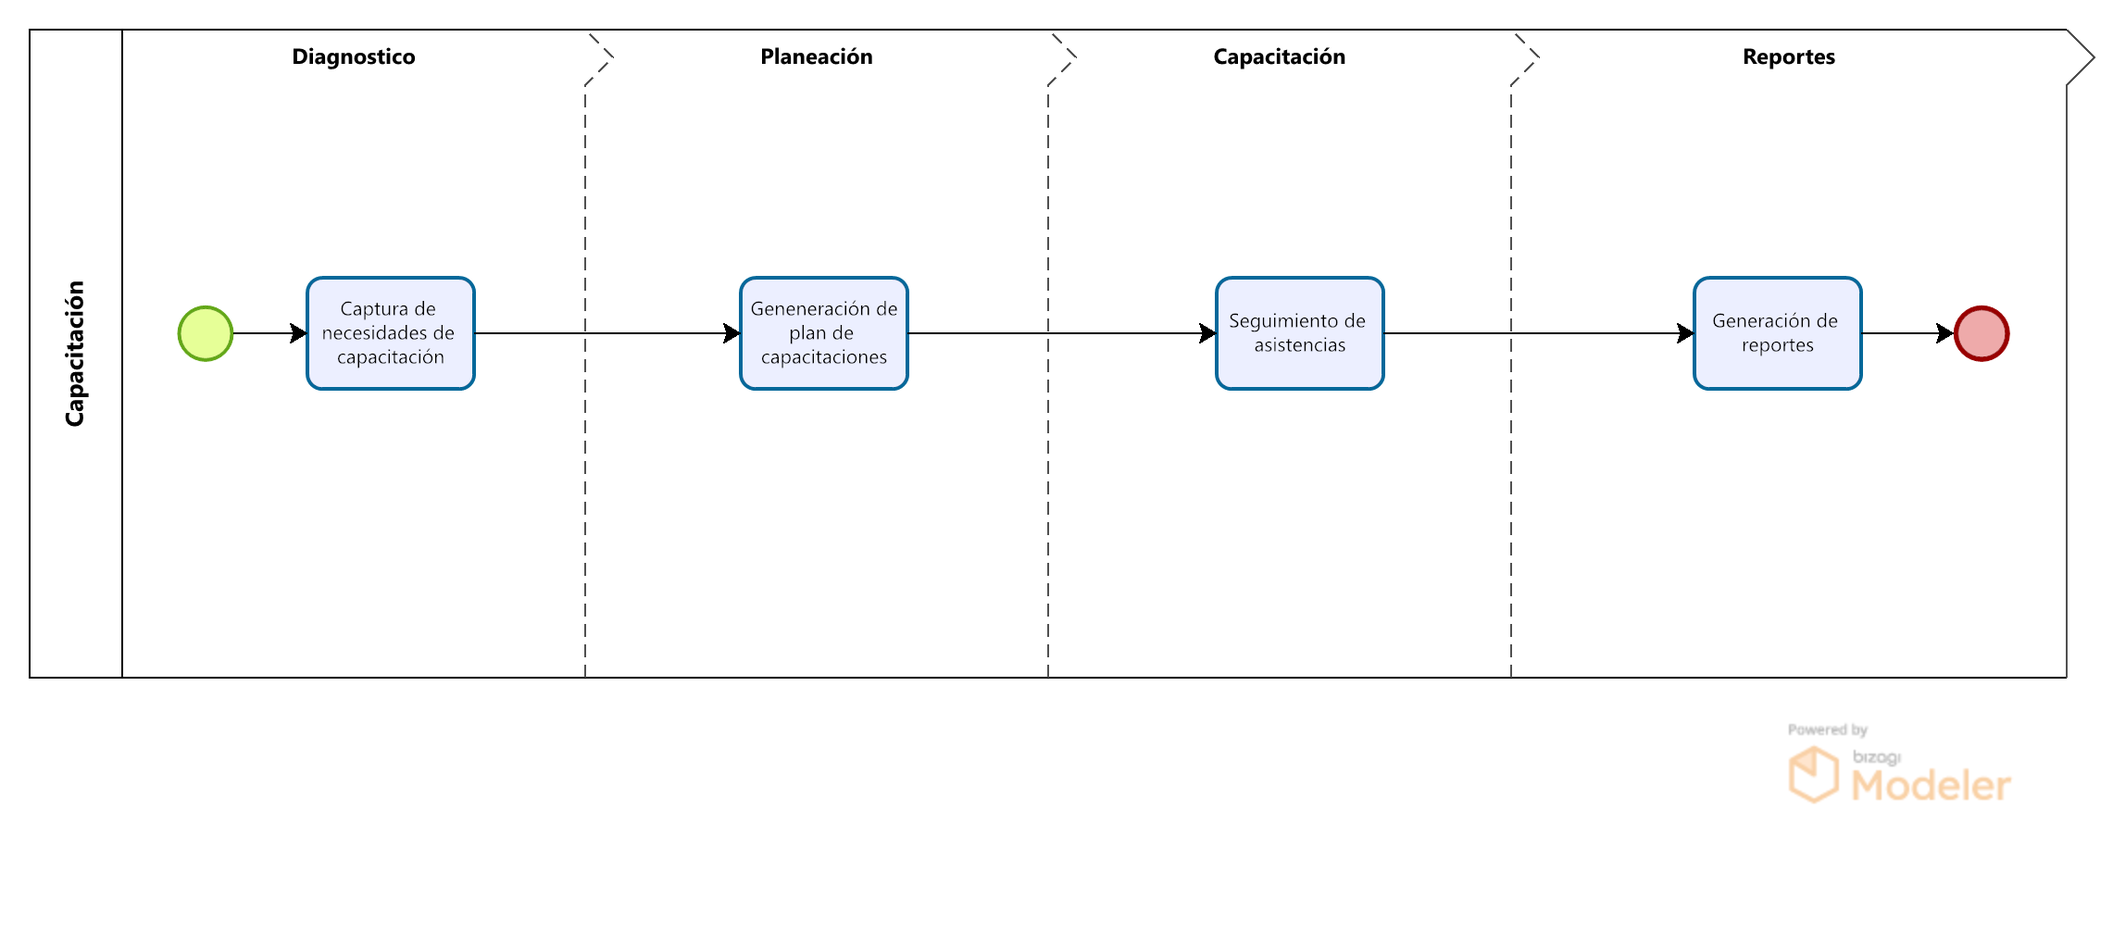
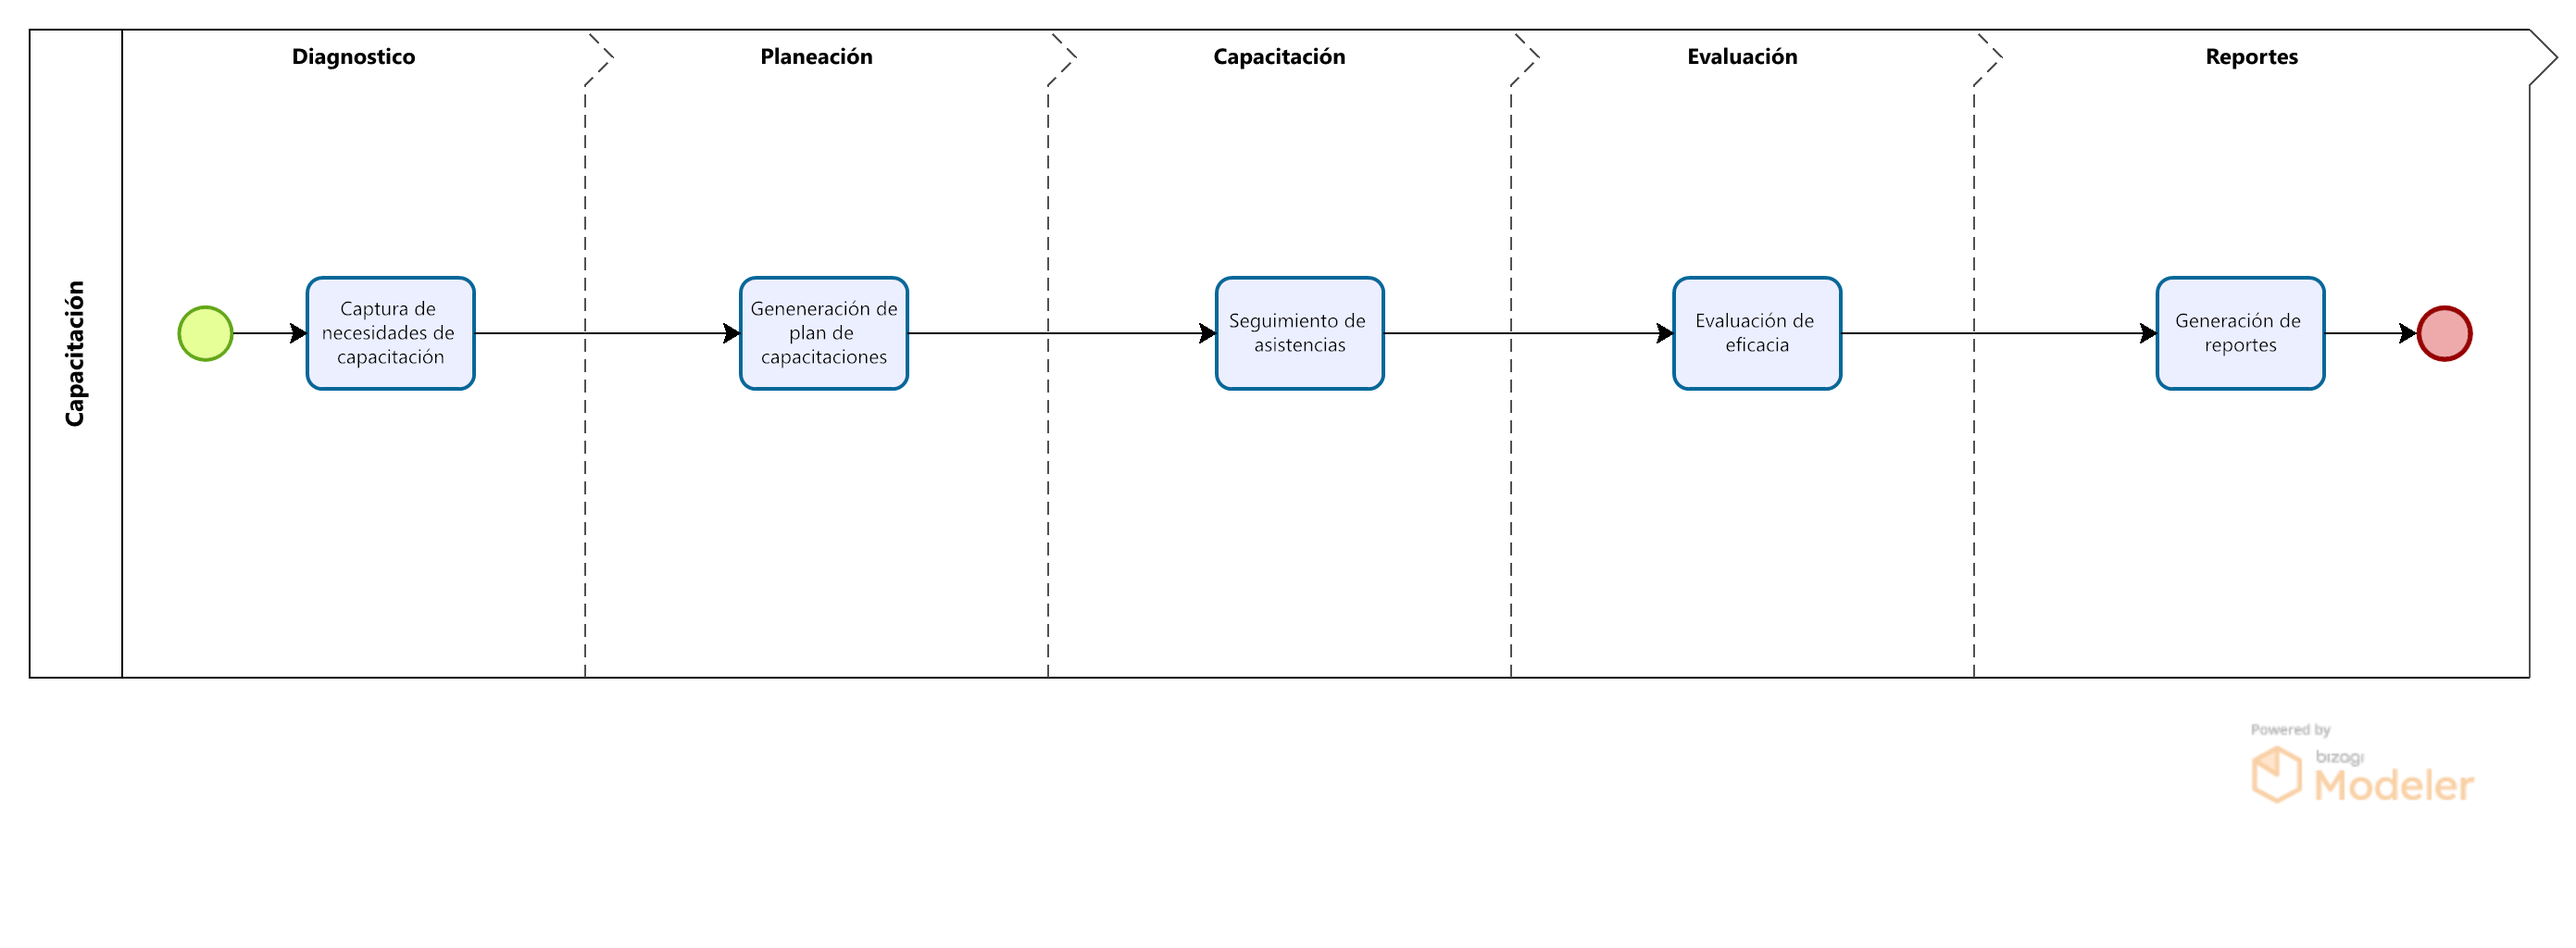
Add evaluation

diff --git a/docs/user-docs/04.evaluation.md b/docs/user-docs/04.evaluation.md
@@ -1,0 +1,7 @@
+# Evaluación de la eficacia
+
+El personal del área de _Capacitación_ podrá evaluar y registrar en la plataforma si la capacitación impartida tuvo la eficacia esperada creado un formato adicional como el que se muestra a continuación
+
+![Agenda](../../static/img/evaluation.png)
+
+La evaluación será solicitada para aquellos cursos que asi hayan sido determinados por el área de capacitación
